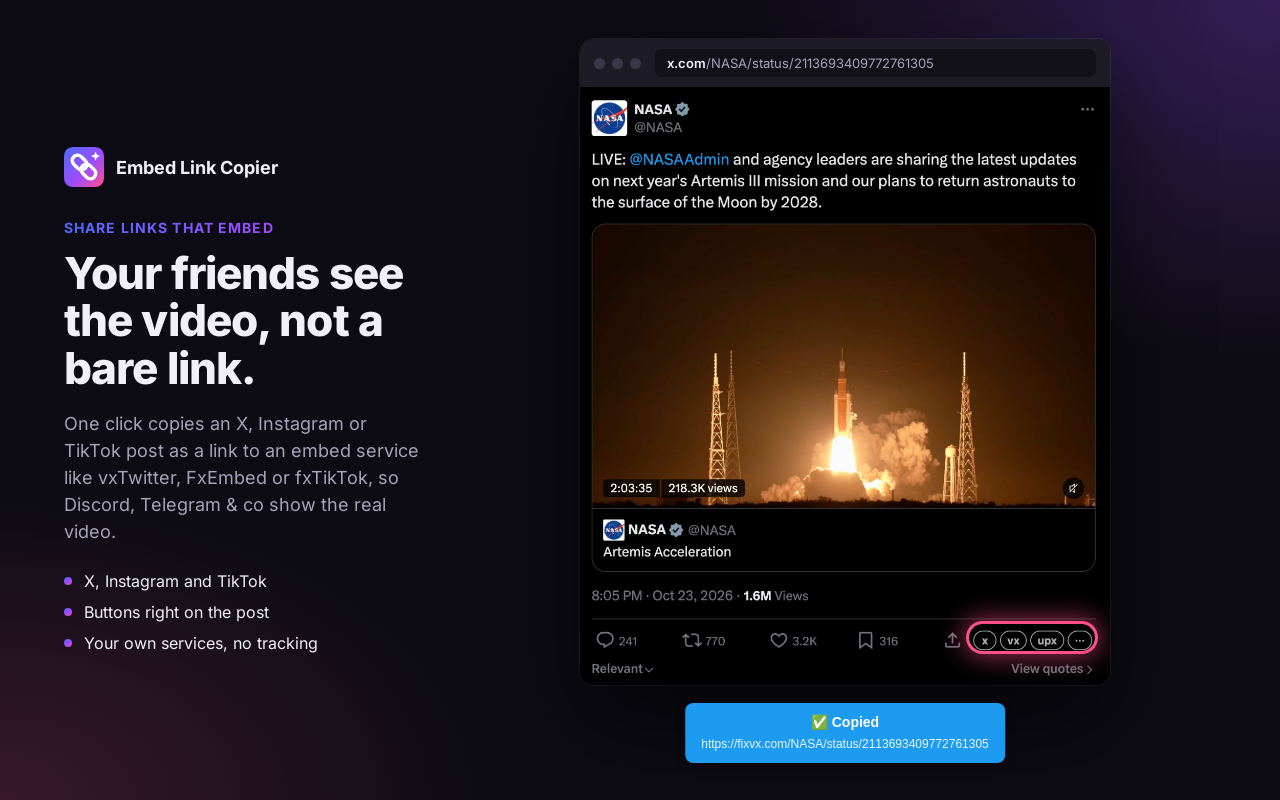
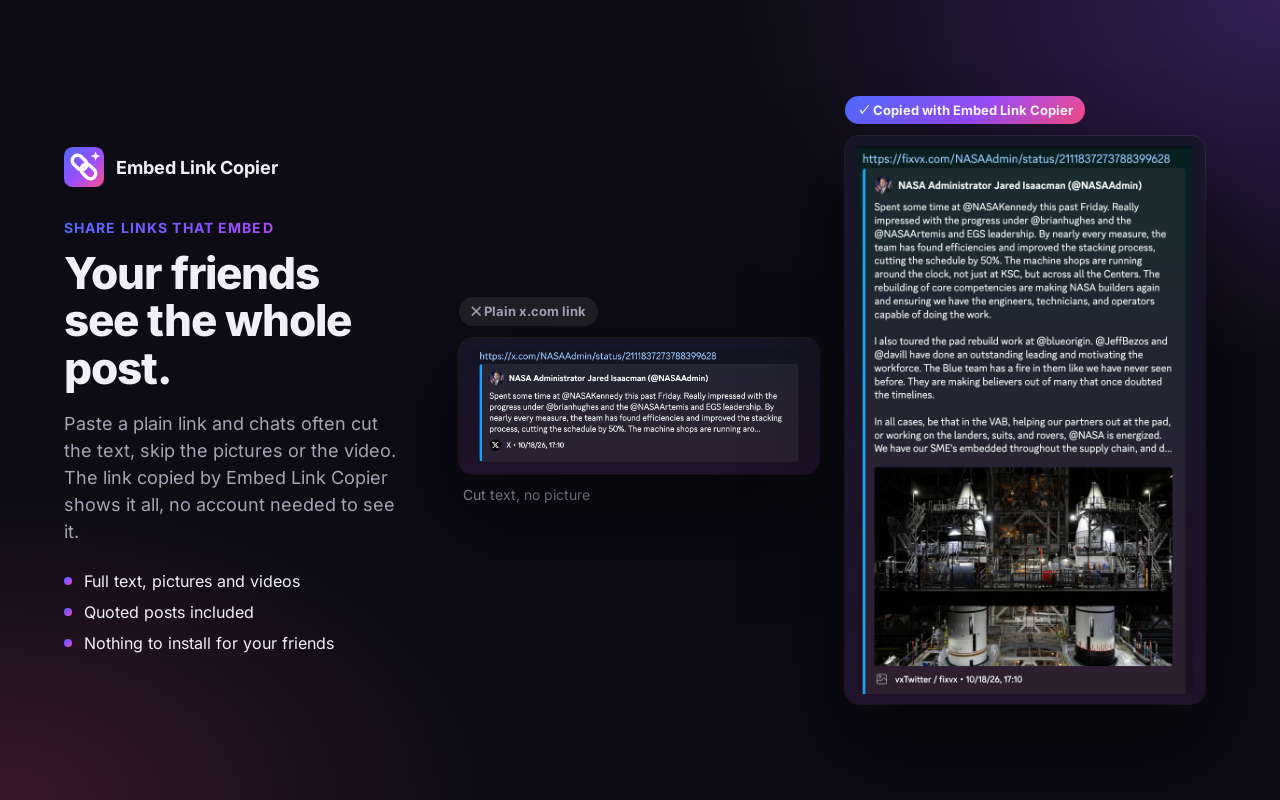
docs(store): comparaison réelle dans Discord, lien d'origine contre lien converti
Mêmes posts collés dans un salon de test : la citation x.com coupée et
sans image face au lien fixvx complet, et le carrousel instagram.com
sans aperçu face au lien kkinstagram. Nouvelle capture d'accueil et
6e visuel pour le site et Firefox.

diff --git a/store/scenes.html b/store/scenes.html
@@ -2,11 +2,11 @@
 <html>
 <!--
   Visuels des fiches Chrome Web Store et Firefox Add-ons, et du site, rendus par store/render.mjs.
-  Une scène par ancre (#hero, #x, #tiktok, #instagram, #popup, #promo, #marquee).
+  Une scène par ancre (#hero, #x, #tiktok, #instagram, #popup, #chat-instagram, #promo, #marquee).
   Les images sont de vraies captures de x.com, instagram.com et tiktok.com avec l'extension
   installée (store/captures/, comptes publics de la NASA), recadrées ici avec .crop
   (--iw/--ih : taille de l'image, --x/--y/--w/--h : zone gardée, en pixels de l'image).
-  Le message « Copied » vient du vrai utils.js de l'extension.
+  Les scènes Discord viennent d'un salon de test : même post en lien d'origine puis en lien converti.
 -->
 <head>
   <meta charset="utf-8">
@@ -72,6 +72,14 @@
     }
     .label { align-self: flex-start; margin: 0 0 -8px 4px; font-size: 13px; font-weight: 600; color: var(--muted); }
     .label b { color: var(--ink); }
+    /* Comparaisons dans Discord */
+    .compare { display: flex; flex-direction: column; gap: 12px; }
+    .tag { align-self: flex-start; padding: 6px 12px; border-radius: 999px; font-size: 13px; font-weight: 700; }
+    .tag.bad { background: rgba(255, 255, 255, .08); color: var(--muted); }
+    .tag.good { background: var(--grad); color: #fff; }
+    .frame.discord { background: linear-gradient(180deg, #171628 0%, #20122a 100%); padding: 10px 12px; }
+    .frame.discord .link { color: #6fb3f7; font-size: 13.5px; padding: 0 2px 6px; }
+    .note { font-size: 14px; color: var(--muted); padding-left: 4px; }
     .popup-shot { width: 440px; border-radius: 14px; box-shadow: 0 40px 90px rgba(0, 0, 0, .6), 0 0 0 1px var(--line); }
 
     /* Le toast de l'extension, posé sous la capture plutôt qu'en bas d'écran */
@@ -84,28 +92,33 @@
 
 <body>
 
-  <!-- 1. Vue d'ensemble : un vrai post X avec les pastilles -->
+  <!-- 1. Le résultat dans Discord : vraies captures du même post, lien x.com puis lien fixvx -->
   <section class="scene backdrop" id="hero">
-    <div class="copy">
+    <div class="copy" style="width: 420px;">
       <div class="brand"><img src="icon.svg" alt="">Embed Link Copier</div>
       <div class="kicker">Share links that embed</div>
-      <h1>Your friends see the video, not a bare link.</h1>
-      <p class="lead">One click copies an X, Instagram or TikTok post as a link to an embed service like vxTwitter, FxEmbed or fxTikTok, so Discord, Telegram &amp;&nbsp;co show the real video.</p>
+      <h1>Your friends see the whole post.</h1>
+      <p class="lead">Paste a plain link and chats often cut the text, skip the pictures or the video. The link copied by Embed Link Copier shows it all, no account needed to see it.</p>
       <ul class="points">
-        <li>X, Instagram and TikTok</li>
-        <li>Buttons right on the post</li>
-        <li>Your own services, no tracking</li>
+        <li>Full text, pictures and videos</li>
+        <li>Quoted posts included</li>
+        <li>Nothing to install for your friends</li>
       </ul>
     </div>
-    <div class="stage">
-      <div class="frame" style="width: 530px;">
-        <div class="chrome"><div class="dots"><i></i><i></i><i></i></div><div class="url"><b>x.com</b>/NASA/status/2113693409772761305</div></div>
-        <div class="crop" style="--iw: 1036; --ih: 1167; --x: 0; --y: 0; --w: 1036; --h: 1167;">
-          <img src="captures/x-post.png" alt="">
-          <div class="ring" style="left: 73.4%; top: 89.8%; width: 23.8%; height: 4.6%;"></div>
+    <div class="stage" style="flex-direction: row; align-items: center; gap: 26px; padding-right: 36px;">
+      <div class="compare">
+        <div class="tag bad">✕ Plain x.com link</div>
+        <div class="frame discord" style="width: 360px;">
+          <div class="crop" style="--iw: 1100; --ih: 380; --x: 0; --y: 0; --w: 1100; --h: 380;"><img src="captures/discord-x-quote-plain.png" alt=""></div>
+        </div>
+        <div class="note">Cut text, no picture</div>
+      </div>
+      <div class="compare">
+        <div class="tag good">✓ Copied with Embed Link Copier</div>
+        <div class="frame discord" style="width: 360px;">
+          <div class="crop" style="--iw: 720; --ih: 1176; --x: 0; --y: 0; --w: 720; --h: 1176;"><img src="captures/discord-x-quote-fixvx.png" alt=""></div>
         </div>
       </div>
-      <div id="hero-toast" style="position: relative; width: 530px; height: 58px;"></div>
     </div>
   </section>
 
@@ -192,6 +205,32 @@
     <div class="stage"><img class="popup-shot" src="build/popup.png" alt=""></div>
   </section>
 
+  <!-- 6. Instagram dans Discord : lien instagram.com sans aperçu, lien kkinstagram avec la photo -->
+  <section class="scene backdrop" id="chat-instagram">
+    <div class="copy">
+      <div class="brand"><img src="icon.svg" alt="">Embed Link Copier</div>
+      <div class="kicker">Instagram in your chats</div>
+      <h1>No more links without a preview.</h1>
+      <p class="lead">Many Instagram links show nothing at all once pasted. With <b>kkinstagram</b>, the picture or the reel shows up right in the chat.</p>
+    </div>
+    <div class="stage" style="flex-direction: row; align-items: center; gap: 26px; padding-right: 36px;">
+      <div class="compare">
+        <div class="tag bad">✕ Plain instagram.com link</div>
+        <div class="frame discord" style="width: 360px;">
+          <div class="crop" style="--iw: 960; --ih: 684; --x: 0; --y: 0; --w: 960; --h: 62;"><img src="captures/discord-ig-carousel.png" alt=""></div>
+        </div>
+        <div class="note">No preview at all</div>
+      </div>
+      <div class="compare">
+        <div class="tag good">✓ Copied with Embed Link Copier</div>
+        <div class="frame discord" style="width: 360px;">
+          <div class="link">https://kkinstagram.com/nasa/p/De1wbZ6l2Vy/</div>
+          <div class="crop" style="--iw: 960; --ih: 684; --x: 0; --y: 64; --w: 960; --h: 620;"><img src="captures/discord-ig-carousel.png" alt=""></div>
+        </div>
+      </div>
+    </div>
+  </section>
+
   <!-- Petite tuile promo 440x280 -->
   <section class="scene" id="promo">
     <div class="promo" style="flex-direction:column;justify-content:center;gap:16px;text-align:center">
@@ -229,14 +268,6 @@
     if (scene === 'promo') document.body.style.cssText = 'width:440px;height:280px';
     if (scene === 'marquee') document.body.style.cssText = 'width:1400px;height:560px';
 
-    // Vrai toast de l'extension, ancré sous la capture du post
-    if (scene === 'hero') {
-      createToast(CONFIG.MESSAGES.COPIED, 1e9, 'https://fixvx.com/NASA/status/2113693409772761305');
-      const toast = document.querySelector('.xilc-toast');
-      const anchor = document.getElementById('hero-toast');
-      anchor.appendChild(toast);
-      toast.style.cssText += 'left: 50%; top: 0; bottom: auto; right: auto; transform: translateX(-50%); white-space: nowrap;';
-    }
   </script>
 </body>
 

diff --git a/site/index.html b/site/index.html
@@ -121,7 +121,7 @@
           <a class="btn secondary" href="https://addons.mozilla.org/firefox/addon/x-instagram-link-converter/">Add to Firefox</a>
         </div>
         <div class="note">Free, open source, no tracking.</div>
-        <div class="shot"><img src="screenshots/1-share-links-that-embed.png" alt="A NASA post on X with the x, vx and upx chips in its action bar, and the copied fixvx link"></div>
+        <div class="shot"><img src="screenshots/1-share-links-that-embed.png" alt="In Discord, a plain x.com link shows cut text without the picture; the same post copied as a fixvx link shows the full text and the picture"></div>
       </div>
     </div>
 
@@ -144,6 +144,7 @@
         <figure><img src="screenshots/2-x-twitter.png" alt="The x, vx, upx and ⋯ chips under a NASA post on X, with the ⋯ menu open on vxtwitter" loading="lazy"><figcaption>X: one click on the post</figcaption></figure>
         <figure><img src="screenshots/3-tiktok.png" alt="The tnk, txk and ⋯ chips under the Share button of a NASA TikTok video" loading="lazy"><figcaption>TikTok: chips under Share</figcaption></figure>
         <figure><img src="screenshots/4-instagram.png" alt="The link button next to Share on a NASA Webb Instagram post, and kkinstagram in the Share menu" loading="lazy"><figcaption>Instagram: next to Share and in the Share menu</figcaption></figure>
+        <figure><img src="screenshots/6-instagram-in-chat.png" alt="In Discord, a plain instagram.com link has no preview; the kkinstagram link shows the picture" loading="lazy"><figcaption>Instagram links that finally show something</figcaption></figure>
         <figure><img src="screenshots/5-custom-services.png" alt="The services editor in the extension popup" loading="lazy"><figcaption>Your services, your rules</figcaption></figure>
       </div>
     </section>

diff --git a/store/FIREFOX.md b/store/FIREFOX.md
@@ -65,12 +65,13 @@ If you use them a lot, consider supporting their maintainers. This add-on is not
 ## Images
 
 - **Add-on icon**: `icons/icon128.png`
-- **Screenshots**: `store/screenshots/1..5-*.png`, with these captions:
-  1. Copy any post as a link that shows a real preview in chats
+- **Screenshots**: `store/screenshots/1..6-*.png` (the 6th is Firefox and site only), with these captions:
+  1. In Discord: a plain x.com link vs the same post copied with Embed Link Copier
   2. X: chips in the action bar of every post, more services in the ⋯ menu
   3. TikTok: chips under Share on every video
   4. Instagram: a button next to Share, and kkinstagram in the Share menu
   5. Add, hide or reorder your own link services
+  6. In Discord: an Instagram link with no preview vs the kkinstagram link
 
 To refresh the screenshots of the live listing: Edit Product Page → Images → Edit, remove the old
 ones, add the new ones with their captions, Save Changes. No new version needed.

diff --git a/store/CHROME.md b/store/CHROME.md
@@ -68,7 +68,9 @@ This extension is not affiliated with these services, nor with X Corp., Meta or 
 | **Image promotionnelle en haut de la page** (1400 x 560) | `store/promo-marquee-1400x560.png` |
 
 All are 24-bit PNG without alpha, as Chrome requires. The screenshots are real captures of
-public NASA posts with the extension installed.
+public NASA posts with the extension installed; the first one compares the same post pasted in
+Discord as a plain link and as a converted link. `6-instagram-in-chat.png` is for Firefox and the
+site only (Chrome takes 5 screenshots).
 
 To replace the screenshots of the live listing: delete the old ones in "Captures d'écran",
 drop the new ones in order, then "Envoyer pour examen". No new package needed.
